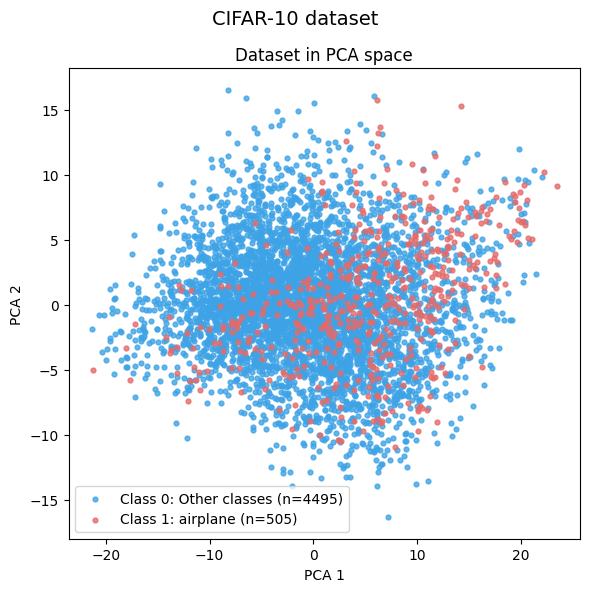
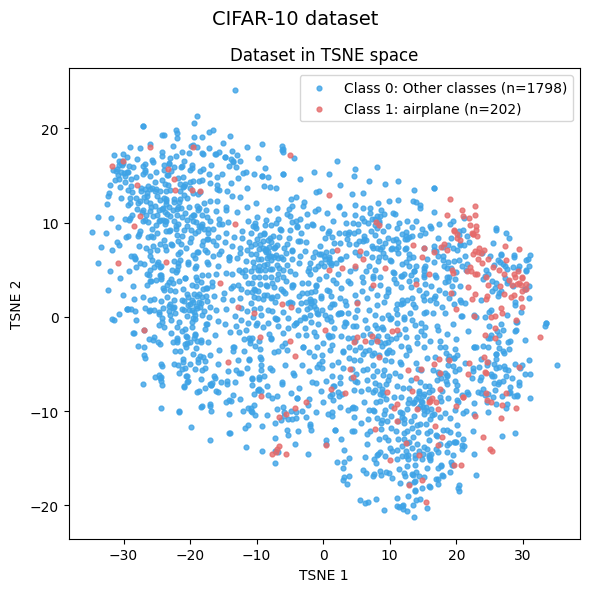
tsne for the image plots

diff --git a/data_loaders/loaders/abstract_loader.py b/data_loaders/loaders/abstract_loader.py
@@ -24,6 +24,13 @@ class AbstractLoader(ABC):
     least ``'X'`` and ``'y'`` keys.  All splitting, shuffling, scaling, and
     dimensionality-reduction logic lives here so individual loaders stay lean.
 
+    Class attributes
+    ----------------
+    default_dim_reducer : str
+        Dimensionality reduction method used by :meth:`plot_dataset` and
+        :meth:`plot_train_test_split` when none is specified.  Image loader
+        subclasses override this to ``'TSNE'``.
+
     Parameters
     ----------
     shuffle : bool, default=True
@@ -44,7 +51,7 @@ class AbstractLoader(ABC):
     test_post_process : callable or None, default=None
         Function ``(X, y) -> (X, y)`` applied to test data after splitting.
     percent_of_data : float or None, default=None
-        If set, downsample the full dataset to this percentage (0–100) while
+        If set, downsample the full dataset to this percentage (0-100) while
         preserving class proportions.
     set_seed : bool or int, default=True
         Random seed for shuffling and splitting. True uses 42, False disables.
@@ -61,6 +68,8 @@ class AbstractLoader(ABC):
     **kwargs
         Additional keyword arguments (ignored, allows flexible subclass init).
     """
+
+    default_dim_reducer: str = 'PCA'
 
     def __init__(self,
                  shuffle: bool = True,
@@ -351,6 +360,7 @@ class AbstractLoader(ABC):
             data_override: DataDict | None = None,
             terminal_plot: bool = False,
             ax: Any = None,
+            dim_reducer_method: str | None = None,
     ) -> tuple[Any, Any] | None:
         """
         Plot the dataset.
@@ -362,6 +372,9 @@ class AbstractLoader(ABC):
             If True, render plot in terminal
         ax : matplotlib.axes.Axes, optional
             If provided, plot on this axes instead of creating new figure
+        dim_reducer_method : str or None, default=None
+            Dimensionality reduction method for plotting. If None, uses
+            ``self.default_dim_reducer``.
 
         Returns
         -------
@@ -382,7 +395,8 @@ class AbstractLoader(ABC):
             dataset_name=self.name,
             label_names=self.get_label_names(),
             terminal_plot=terminal_plot,
-            ax=ax  # Pass through
+            ax=ax,
+            dim_reducer_method=dim_reducer_method or self.default_dim_reducer,
         )
 
 
@@ -392,6 +406,7 @@ class AbstractLoader(ABC):
             test_data_override: DataDict | None = None,
             terminal_plot: bool = False,
             ax: Any = None,
+            dim_reducer_method: str | None = None,
     ) -> tuple[Any, Any] | None:
         """
         Create train/test split and plot both datasets.
@@ -405,6 +420,9 @@ class AbstractLoader(ABC):
         ax : tuple of 2 matplotlib.axes.Axes, optional
             Tuple of 2 Axes (train_ax, test_ax) to plot on.
             If None (default): create new figure with 2 subplots
+        dim_reducer_method : str or None, default=None
+            Dimensionality reduction method for plotting. If None, uses
+            ``self.default_dim_reducer``.
 
         Returns
         -------
@@ -432,7 +450,8 @@ class AbstractLoader(ABC):
             dataset_name=self.name,
             label_names=self.get_label_names(),
             terminal_plot=terminal_plot,
-            ax=ax  # Pass through
+            ax=ax,
+            dim_reducer_method=dim_reducer_method or self.default_dim_reducer,
         )
 
     def __str__(self) -> str:

diff --git a/scripts/generate_dataset_figures.py b/scripts/generate_dataset_figures.py
@@ -63,7 +63,7 @@ def generate_figure(name: str) -> str | None:
             y=y,
             dataset_name=name,
             label_names=label_names if isinstance(label_names, list) else None,
-            dim_reducer_method='PCA',
+            dim_reducer_method=loader.default_dim_reducer,
         )
         fname = f'{safe_filename(name)}.png'
         fpath = os.path.join(FIGURES_DIR, fname)

diff --git a/data_loaders/loaders/web_loaders/cifar100.py b/data_loaders/loaders/web_loaders/cifar100.py
@@ -60,6 +60,8 @@ class Cifar100Loader(AbstractLoader):
         Additional keyword arguments forwarded to :class:`AbstractLoader`.
     """
 
+    default_dim_reducer: str = 'TSNE'
+
     def __init__(self,
                  shuffle: bool = True,
                  train_size: float = 0.1,

diff --git a/data_loaders/loaders/web_loaders/cifar10n.py b/data_loaders/loaders/web_loaders/cifar10n.py
@@ -60,6 +60,8 @@ class Cifar10NLoader(AbstractLoader):
         Additional keyword arguments forwarded to :class:`AbstractLoader`.
     """
 
+    default_dim_reducer: str = 'TSNE'
+
     def __init__(self,
                  shuffle: bool = True,
                  train_size: float = 0.1,

diff --git a/data_loaders/loaders/web_loaders/cifar10.py b/data_loaders/loaders/web_loaders/cifar10.py
@@ -47,6 +47,8 @@ class Cifar10Loader(AbstractLoader):
         Additional keyword arguments forwarded to :class:`AbstractLoader`.
     """
 
+    default_dim_reducer: str = 'TSNE'
+
     def __init__(self,
                  shuffle: bool = True,
                  train_size: float = 0.1,

diff --git a/data_loaders/loaders/web_loaders/mnist.py b/data_loaders/loaders/web_loaders/mnist.py
@@ -44,6 +44,8 @@ class MnistLoader(AbstractLoader):
         Additional keyword arguments forwarded to :class:`AbstractLoader`.
     """
 
+    default_dim_reducer: str = 'TSNE'
+
     def __init__(self,
                  shuffle: bool = True,
                  train_size: float = 0.1,
